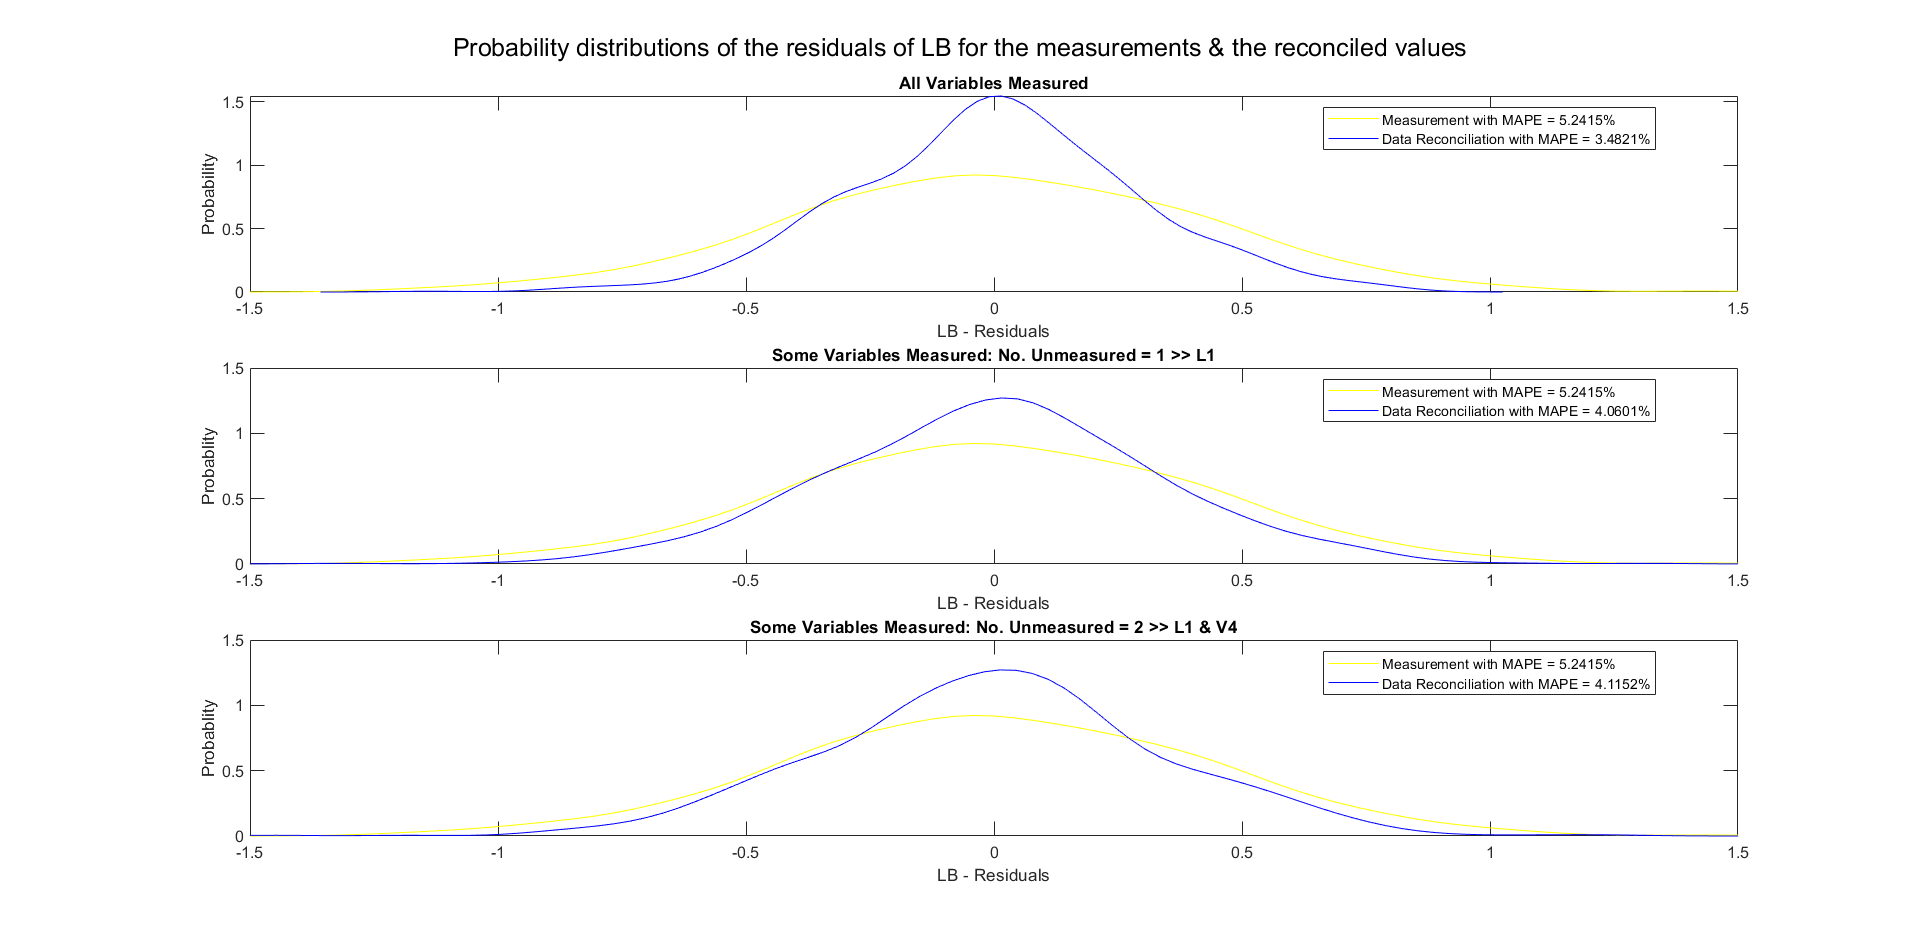
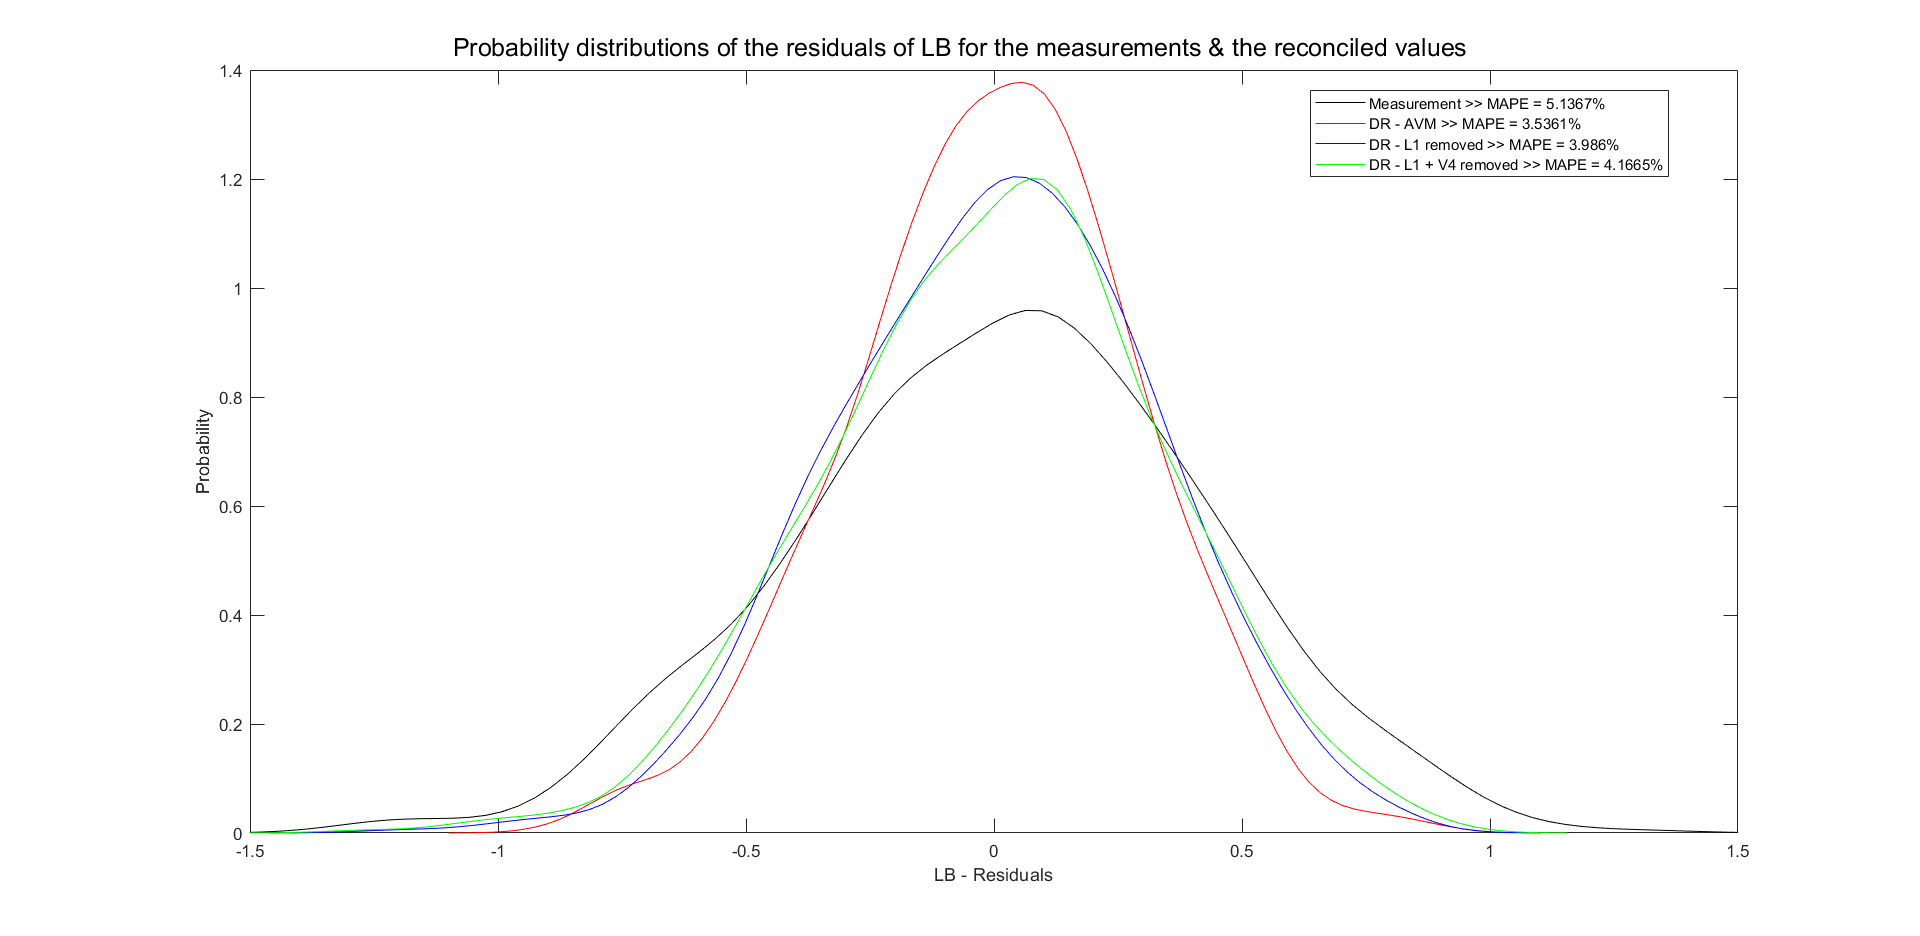
Updated

diff --git a/MATLAB/linearDR_redundancy.m b/MATLAB/linearDR_redundancy.m
@@ -145,25 +145,21 @@ end
 % Plot results - Density Function
 % Figure 5.2.3
 if disp == 3
-    subplot(a+1,1,1)
-    plot(xim, fm, 'y', xiavm, favm, 'b')
-    title("All Variables Measured")
+    plot(xim, fm, 'k', xiavm, favm, 'r')
     xlabel('LB - Residuals'); ylabel('Probability');
     xlim([-1.5 1.5]);
-    legend("Measurement with MAPE = "+num2str(mapeM)+"%", "Data Reconciliation with MAPE = "+num2str(mape_avm)+"%", 'Location', 'Best')
+    hold on
     for i = 1:a
-        subplot(a+1,1,i+1)
-        plot(xim, fm, 'y', xisvm(i,:), fsvm(i,:), 'b')
         if i == 1
-            title("Some Variables Measured: No. Unmeasured = "+num2str(i)+" >> L1")
+            plot(xisvm(i,:), fsvm(i,:), 'b')
         elseif i == 2
-            title("Some Variables Measured: No. Unmeasured = "+num2str(i)+" >> L1 & V4")
+            plot(xisvm(i,:), fsvm(i,:), 'g')
         end        
-        xlabel('LB - Residuals'); ylabel('Probablity');
-        xlim([-1.5 1.5]);
-        legend("Measurement with MAPE = "+num2str(mapeM)+"%", "Data Reconciliation with MAPE = "+num2str(mape_svm(i))+"%", 'Location', 'Best')
     end
+    legend("Measurement >> MAPE = "+num2str(mapeM)+"%", "DR - AVM >> MAPE = "+num2str(mape_avm)+"%",...
+           "DR - L1 removed >> MAPE = "+num2str(mape_svm(1))+"%", "DR - L1 + V4 removed >> MAPE = "+num2str(mape_svm(2))+"%",'Location', 'Best')
     sgtitle("Probability distributions of the residuals of LB for the measurements & the reconciled values")
+    hold off
 end
 
 % Display MAPE values in Table
